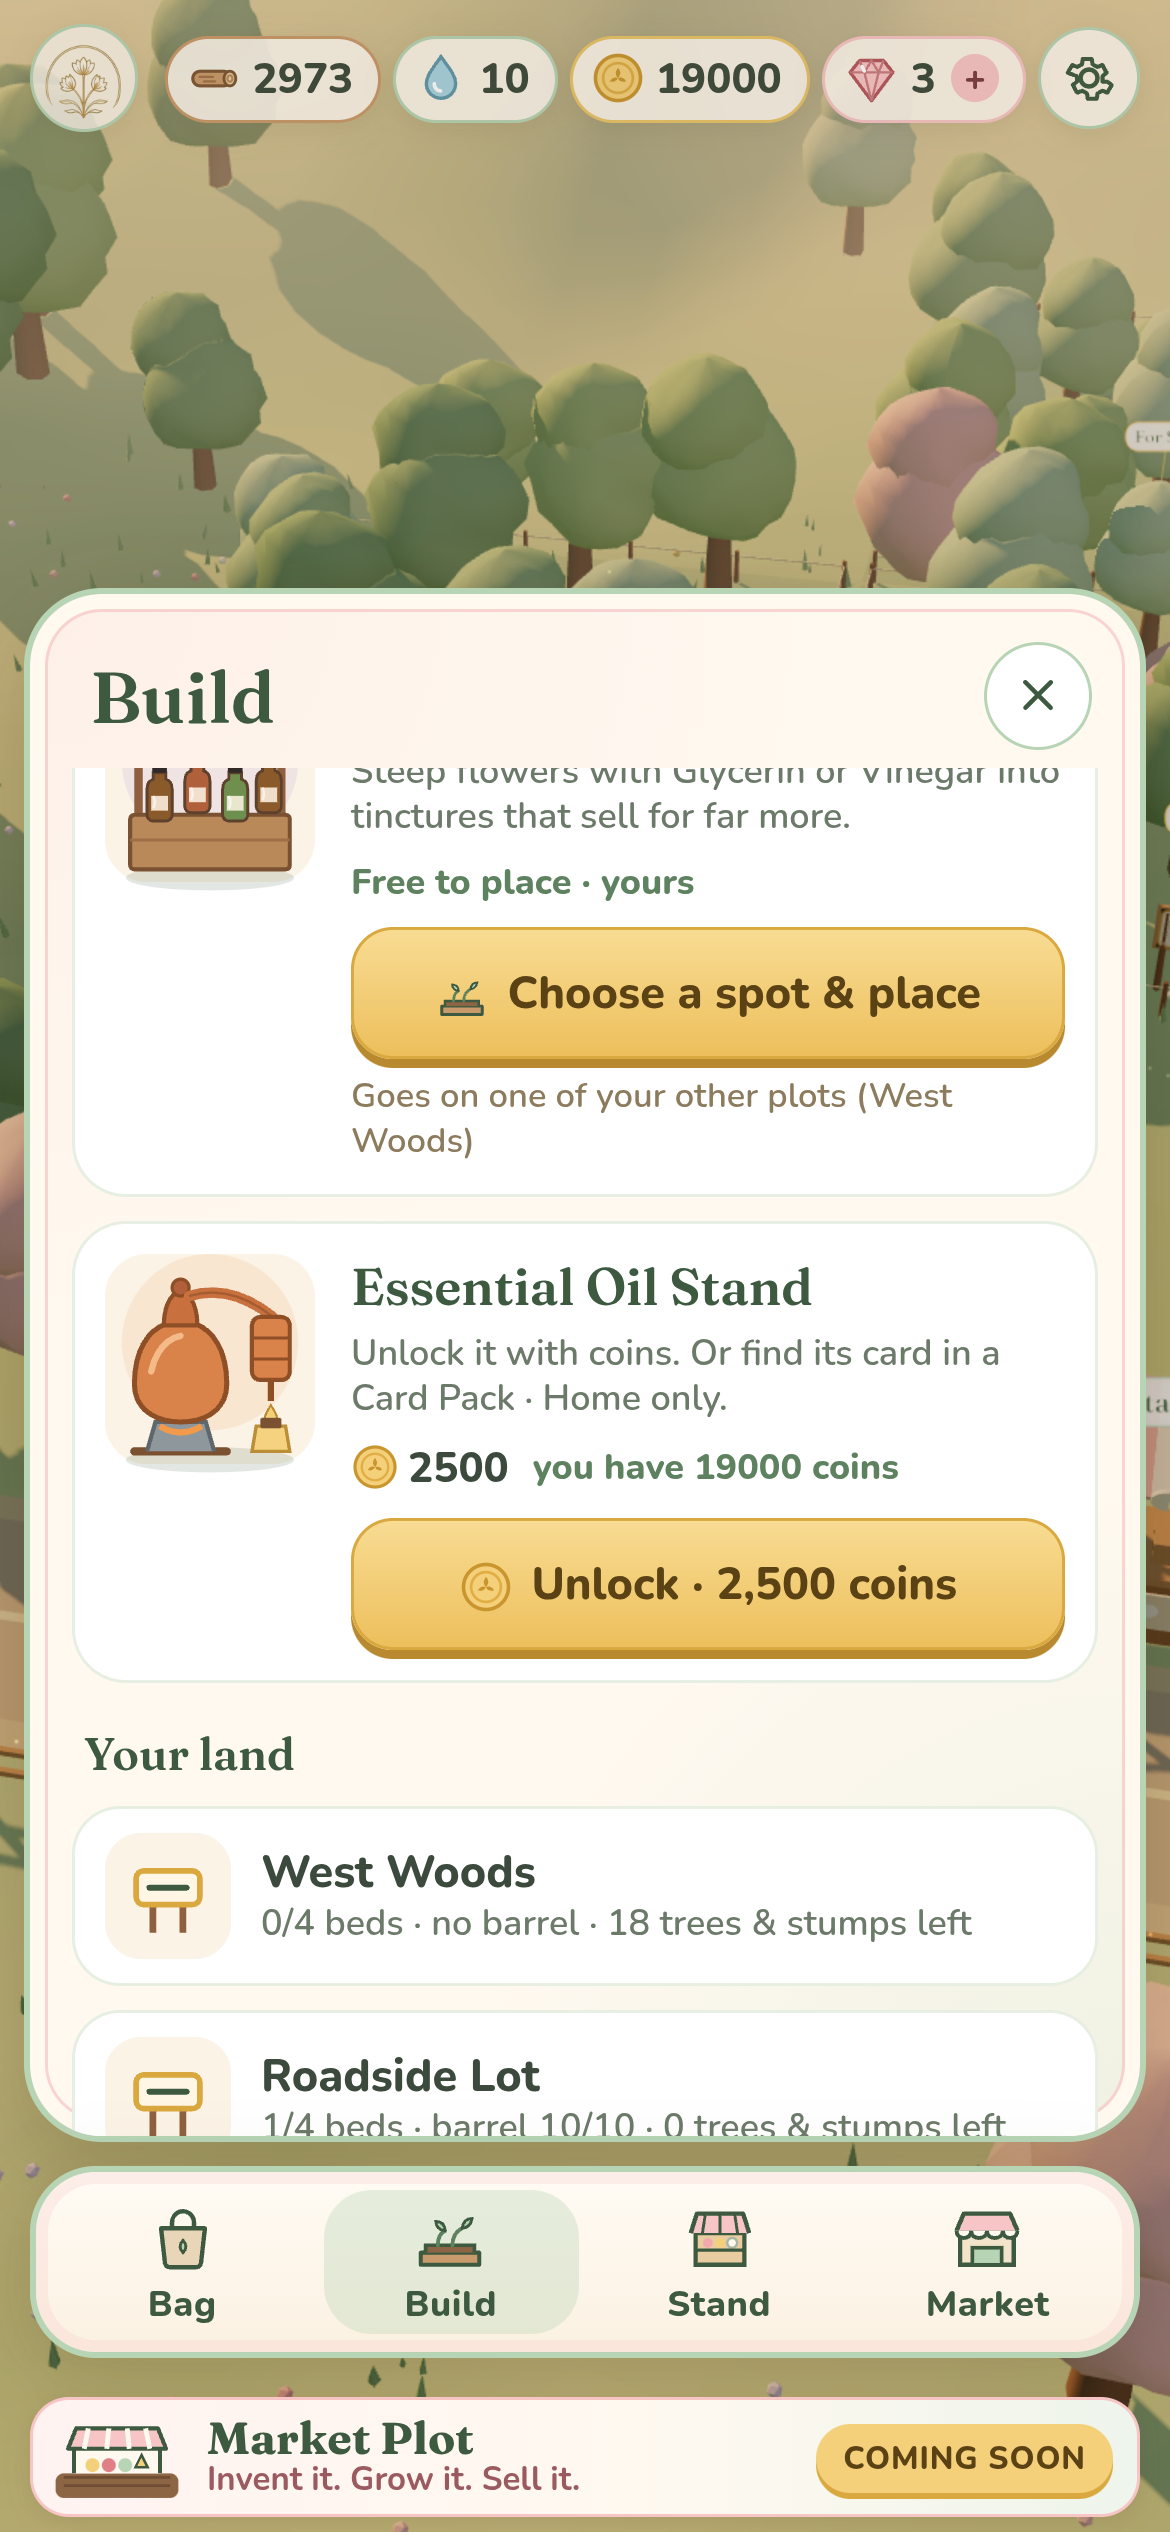
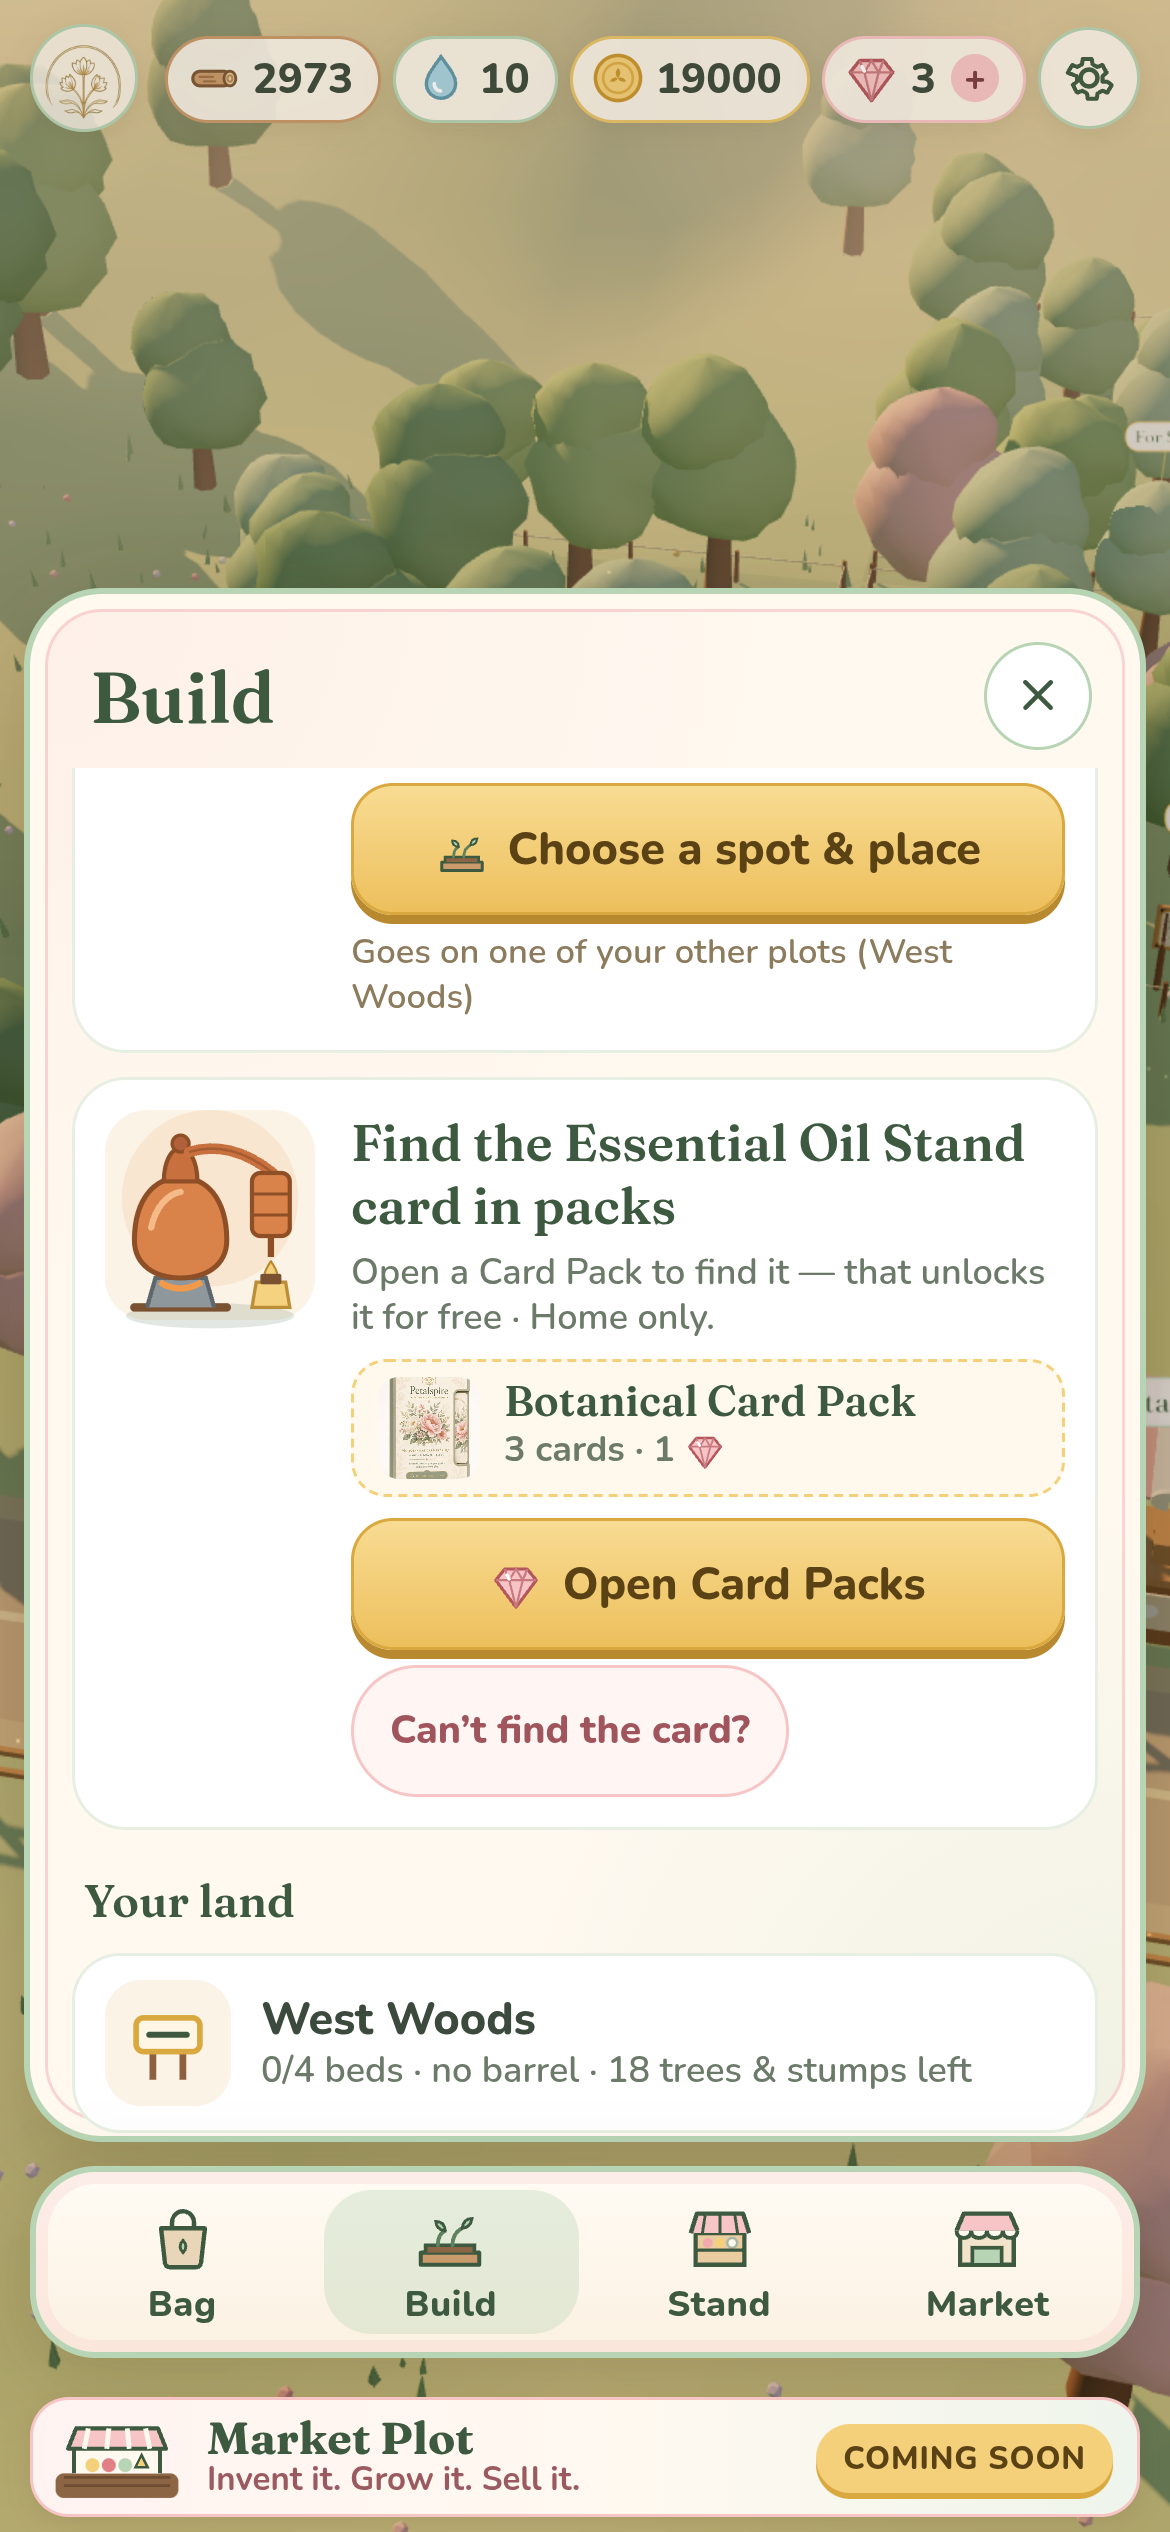
v0.62: stands unlock by finding their card in packs (main route, Open Card Packs); coins behind "Can't find the card?" panel with price, your coins, Unlock (disabled + hint when short)

Changed region(s): [[0.0615, 0.2808, 0.9231, 0.8424], [0.5231, 0.7488, 0.8308, 0.78], [0.8615, 0.78, 0.9538, 0.8112]]

diff --git a/js/main.js b/js/main.js
@@ -13,7 +13,7 @@ import { shadeAt, speedFor, sunLabel, rebaseStart } from './shade.js';
 
 // Save format: v0.3, v0.31 and v0.4 share one localStorage key (schema v: 3). `build` records which prototype build last wrote the save;
 // v0.3 / v0.31 saves (no `build`, no per-plot barrels) are migrated on load (migrate04 below); v0.4 saves load as-is and are re-tagged. Prototype builds stay below 1.0.
-export const BUILD = '0.61';
+export const BUILD = '0.62';
 const SAVE_KEY = 'petalspire.v03', V02_KEY = 'petalspire.v02', OLD_KEYS = ['petalspire.v01'];
 const QS = new URLSearchParams(location.search);
 const TREE_MS = Math.max(0.05, +QS.get('treeMin') || TREE.growMin) * 60000;   // ?treeMin=1 for quick testing
@@ -1817,13 +1817,36 @@ const COIN_STANDS = new Set(STAND_UNLOCK.map((u) => u.id));
 const standGot = (id) => (id === 'tincture' ? !!S.owned.tincture : !!S.unlocked[id]);
 const nextCoinStand = () => STAND_UNLOCK.find((u) => !standGot(u.id)) || null;
 const coinStandHere = (id) => { const u = nextCoinStand(); return u && u.id === id && standOkAt(id, curLoc()) ? u : null; };
-const coinUnlockSub = (id) => `${id === 'tincture' ? 'Or earn it free from the goal “' + GOALS.find((g) => g.reward === 'tincture').text.split(' · ')[0] + '”' : 'Or find its card in a Card Pack'} · ${whereTag(id)}`;
-function coinUnlockCard(id) { const u = coinStandHere(id); if (!u) return ''; const ok = S.coins >= u.coins;
-  return `<div class="build-card coin-unlock" data-coin-unlock-card="${id}"><div class="bc-art">${FEATURE_ART[id]}</div><div class="meta"><b>${FEATURES[id].name}</b><small>Unlock it with coins. ${coinUnlockSub(id)}.</small>
-    <div class="cost">${coin(u.coins)} <span class="${ok ? 'ok' : 'no'}">you have ${S.coins} coins</span></div>
-    <button class="btn btn-gold" data-act="coin-unlock" data-id="${id}" ${ok ? '' : 'disabled'}><i data-icon="coin"></i> Unlock · ${u.coins.toLocaleString('en-US')} coins</button></div></div>`; }
+const fmtC = (n) => n.toLocaleString('en-US');
+// v0.62: the card is the main route (Card Pack), coins are the fallback behind "Can't find the card?"
+const tincGoal = () => GOALS.find((g) => g.reward === 'tincture').text.split(' · ')[0];
+const cuTitle = (id) => (id === 'tincture' ? `Earn the ${FEATURES[id].name} free` : `Find the ${FEATURES[id].name} card in packs`);
+const cuSub = (id) => (id === 'tincture' ? `A free reward for the goal “${tincGoal()}”` : `Open a Card Pack to find it — that unlocks it for free`) + ` · ${whereTag(id)}`;
+const cuAskLabel = (id) => (id === 'tincture' ? 'Rather not wait?' : 'Can’t find the card?');
+const cuPack = () => `<div class="cu-pack"><img src="assets/pack.jpg" alt=""/><span><b>${PACKS.standard.name}</b><small>${PACKS.standard.cards} cards · ${PACK_JEWELS} <i data-icon="jewel"></i></small></span></div>`;
+function coinUnlockCard(id) { const u = coinStandHere(id); if (!u) return '';
+  return `<div class="build-card coin-unlock" data-coin-unlock-card="${id}"><div class="bc-art">${FEATURE_ART[id]}</div><div class="meta"><b>${cuTitle(id)}</b><small>${cuSub(id)}.</small>
+    ${id === 'tincture' ? '' : cuPack()}
+    ${id === 'tincture' ? '' : `<button class="btn btn-gold" data-act="go-packs" data-cu-packs="${id}"><i data-icon="jewel"></i> Open Card Packs</button>`}
+    <button class="cu-ask" data-act="coin-unlock-ask" data-id="${id}">${cuAskLabel(id)}</button></div></div>`; }
 function coinUnlockRow(id) { const u = coinStandHere(id); if (!u) return '';
-  return `<div class="row coin-unlock" data-coin-unlock-row="${id}"><div class="ico">${FEATURE_ART[id]}</div><div class="meta"><b>Unlock the ${FEATURES[id].name}</b><small>${coinUnlockSub(id)}</small>${mktTag(id)}</div><div class="acts"><button class="btn btn-gold sm" data-act="coin-unlock" data-id="${id}" ${S.coins >= u.coins ? '' : 'disabled'}>${coin(u.coins)}</button></div></div>`; }
+  return `<div class="row coin-unlock" data-coin-unlock-row="${id}"><div class="ico">${FEATURE_ART[id]}</div><div class="meta"><b>${cuTitle(id)}</b><small>${cuSub(id)}</small>${mktTag(id)}
+    <div class="cu-acts">${id === 'tincture' ? '' : `<button class="btn btn-gold sm" data-act="go-packs" data-cu-packs="${id}"><i data-icon="jewel"></i> Card Packs</button>`}<button class="cu-ask" data-act="coin-unlock-ask" data-id="${id}">${cuAskLabel(id)}</button></div></div></div>`; }
+// the small "Can't find the card?" panel: unlock price, your coins, Unlock (disabled + hint when short)
+function coinUnlockAsk(id) {
+  const u = nextCoinStand(); if (!u || u.id !== id || !standOkAt(id, curLoc())) return false;
+  const ok = S.coins >= u.coins, short = u.coins - S.coins, C = $('#confirm');
+  const bc = id === 'tincture' ? null : buyCost(id);
+  C.innerHTML = `<div class="confirm-card cu-panel" data-cu-panel="${id}"><div class="cu-art">${FEATURE_ART[id]}</div>
+    <h3>Unlock with coins</h3><p class="muted">${id === 'tincture' ? `Skip the goal and unlock the ${FEATURES[id].name} now.` : `No ${FEATURES[id].name} card yet? Unlock it now instead.`}</p>
+    <div class="cu-lines"><div><span>Unlock price</span><b data-cu-price>${coin(fmtC(u.coins))}</b></div><div><span>Your coins</span><b data-cu-have class="${ok ? 'ok' : 'no'}">${coin(fmtC(S.coins))}</b></div></div>
+    <p class="cu-note">${id === 'tincture' ? 'Placing it stays free.' : `Then build it as usual: ${coin(fmtC(bc.coins))}${bc.wood ? ' ' + woodTag(bc.wood) : ''} when you place it.`}</p>
+    ${ok ? '' : `<p class="cu-hint" data-cu-hint>You need ${coin(fmtC(short))} more — sell at your stands, or keep an eye out for the card in packs.</p>`}
+    <div class="confirm-acts"><button class="btn" data-c="no">Not now</button><button class="btn btn-gold" data-c="ok" data-cu-unlock="${id}" ${ok ? '' : 'disabled'}><i data-icon="coin"></i> Unlock · ${fmtC(u.coins)}</button></div></div>`;
+  fillIcons(C); C.classList.remove('hidden');
+  C.onclick = (e) => { const b = e.target.closest('[data-c]'); if (!b && e.target !== C) return; if (b?.disabled) return; C.classList.add('hidden'); C.innerHTML = ''; if (b?.dataset.c === 'ok') coinUnlock(id); };
+  return true;
+}
 function coinUnlock(id) {
   const u = nextCoinStand(); if (!u || u.id !== id || S.coins < u.coins) return false;
   S.coins -= u.coins; S.stats.coinUnlocks = (S.stats.coinUnlocks || 0) + 1;
@@ -2656,6 +2679,7 @@ $('#panel-body').addEventListener('click', (e) => {
   if (a === 'build-stand') return buildStand();
   if (a === 'build-ostand') return buildOStand();
   if (a === 'coin-unlock') return coinUnlock(b.dataset.id);
+  if (a === 'coin-unlock-ask') return coinUnlockAsk(b.dataset.id);
   if (a === 'hire-worker') return hireWorker(b.dataset.lot);
   if (a === 'pay-worker') return payWorker(b.dataset.lot);
   if (a === 'open-worker') return openPanel('worker', b.dataset.lot);
@@ -3154,7 +3178,7 @@ setInterval(save, 5000);
 // ---------------- Debug hooks (used by automated tests) ----------------
 const V = (x, y, z) => new THREE.Vector3(x, y, z);
 window.__ps = {
-  STAND_UNLOCK, coinUnlock, nextCoinStand, WORKER, hireWorker, payWorker, workerPass, catchUpWorkers, syncWorkers, workerStatus, workStands, workersOn, workerAt: (l) => W.workerAt(l), get workers() { return S.workers; },
+  STAND_UNLOCK, coinUnlock, coinUnlockAsk, nextCoinStand, WORKER, hireWorker, payWorker, workerPass, catchUpWorkers, syncWorkers, workerStatus, workStands, workersOn, workerAt: (l) => W.workerAt(l), get workers() { return S.workers; },
   setClock: (t) => { clockAt = t; },
   BUILD, get fromBuild() { return fromBuild; },
   TIPS, JEWEL_DROP, obsState, PACKS,

diff --git a/style.css b/style.css
@@ -814,3 +814,27 @@ body.modal-open .tooldock, body.modal-open .goal, body.modal-open .bubble{visibi
 .worker-sheet>span:nth-child(2){flex:1}
 .worker-sheet .wk-ico{font-size:18px}
 .worker-card svg{flex:none}
+
+/* v0.62: stand unlock — the card in packs first, coins behind "Can't find the card?" */
+.coin-unlock .cu-pack{display:flex;align-items:center;gap:8px;background:#FFF8EC;border:1.5px dashed var(--honey);border-radius:12px;padding:5px 8px}
+.coin-unlock .cu-pack img{width:34px;height:34px;object-fit:cover;border-radius:7px;flex:none}
+.coin-unlock .cu-pack b{display:block;font-family:'Fraunces';font-size:14px;font-weight:600;color:var(--moss);line-height:1.1}
+.coin-unlock .cu-pack small{display:flex;align-items:center;gap:3px;font-size:12px;font-weight:700;color:var(--ink-soft)}
+.coin-unlock .cu-pack small i{width:14px;height:14px}
+.cu-ask{align-self:flex-start;min-height:44px;padding:8px 12px;margin:0;border:1.5px solid var(--blush);background:#FFF6F4;border-radius:999px;
+  font-family:'Nunito',sans-serif;font-weight:800;font-size:13px;color:#A0545B;cursor:pointer}
+.cu-ask:active{transform:translateY(1px)}
+.row.coin-unlock{align-items:flex-start}
+.row.coin-unlock .meta{flex:1;min-width:0}
+.cu-acts{display:flex;flex-wrap:wrap;gap:6px;margin-top:6px;align-items:center}
+.cu-acts .btn.sm{min-height:44px}
+.cu-panel .cu-art{width:96px;height:72px;margin:0 auto;background:#FBF3E6;border-radius:16px;display:grid;place-items:center}
+.cu-panel .cu-art svg{width:80px}
+.cu-panel .muted{margin:0 0 10px;font-size:14px}
+.cu-lines{display:grid;gap:6px;text-align:left}
+.cu-lines div{display:flex;justify-content:space-between;align-items:center;background:#fff;border:1.5px solid #E7EFE3;border-radius:12px;padding:8px 12px;font-weight:700;color:var(--moss)}
+.cu-lines b{font-size:16px}.cu-lines b.no{color:#B5545C}.cu-lines b.ok{color:#4F7A4B}
+.cu-note{margin:8px 0 0;font-size:12.5px;font-weight:600;color:var(--ink-soft)}
+.cu-hint{margin:8px 0 0;padding:8px 10px;border-radius:12px;background:#FFF0EF;border:1.5px dashed var(--blush);color:#8E4950;font-size:13px;font-weight:700}
+.confirm-acts .btn{min-height:46px}
+.cu-panel .confirm-acts .btn{white-space:nowrap;font-size:14px;padding:10px 8px}

diff --git a/index.html b/index.html
@@ -8,7 +8,7 @@
 <meta name="apple-mobile-web-app-status-bar-style" content="default" />
 <meta name="apple-mobile-web-app-title" content="Petalspire" />
 <meta name="theme-color" content="#F6E6CF" />
-<title>Petalspire · v0.61</title>
+<title>Petalspire · v0.62</title>
 <link rel="apple-touch-icon" href="assets/emblem.png" />
 <link rel="icon" href="assets/emblem.png" />
 <link rel="preconnect" href="https://fonts.googleapis.com" />
@@ -69,7 +69,7 @@
       <p class="tagline"><span>•</span> Flower Garden Game <span>•</span></p>
       <button id="btn-start" class="btn btn-primary big">Begin</button>
       <p class="title-hint">Clear · Grow · Sell</p>
-      <p class="version">v0.61 prototype</p>
+      <p class="version">v0.62 prototype</p>
     </div>
   </div>
 </div>

diff --git a/README.md b/README.md
@@ -1,4 +1,4 @@
-# Petalspire v0.61
+# Petalspire v0.62
 
 A cozy 3D flower-garden prototype for iPhone Safari (portrait, one thumb). Also plays on desktop with a mouse.
 This is a **prototype**: version numbers stay below 1.0 until the first official release.
@@ -20,6 +20,15 @@ This is a **prototype**: version numbers stay below 1.0 until the first official
 7. **Land for sale.** Five wooded plots, each with a floating For Sale sign: 150 → 300 → 600 → 1000 → 1500 coins.
 
 Drag with one finger to pan, pinch to zoom, and twist with two fingers to turn. On desktop, right-drag or shift-drag turns the view.
+
+## New in v0.62 — find the card first, coins as the backup
+
+v0.62 (build `0.62`, label "v0.62 prototype") is v0.61 with a clearer stand unlock. Saves carry over unchanged.
+
+- Where the next unlockable stand shows (one card in Build, one row in the Supply Market), it now reads **"Find the [Stand] card in packs"**. The Card Pack (3 cards · 1 Jewel) is shown, and the main button, **Open Card Packs**, goes to Market › Card Packs. The Tincture Stand is not a pack card, so it reads **"Earn the Tincture Stand free"** with its goal.
+- A secondary blush button, **"Can't find the card?"** ("Rather not wait?" for the Tincture Stand), opens a small panel with the **unlock price**, **your coins**, the normal build price that still applies when you place it, and **Unlock**. If you can't afford it, Unlock is disabled and a hint says how many coins you still need.
+- The rules are unchanged: same ladder (1,000 → 2,500 → 5,000 → 8,000), only the next stand is shown, only where it can be built, other locked items stay hidden, and the normal build price still applies after unlocking.
+- Screenshots: `89-find-card-in-packs`, `90-unlock-panel-affordable`, `91-unlock-panel-not-enough` (87/88 updated to the new look).
 
 ## New in v0.61 — the Orchard grows up, and Gardeners
 
